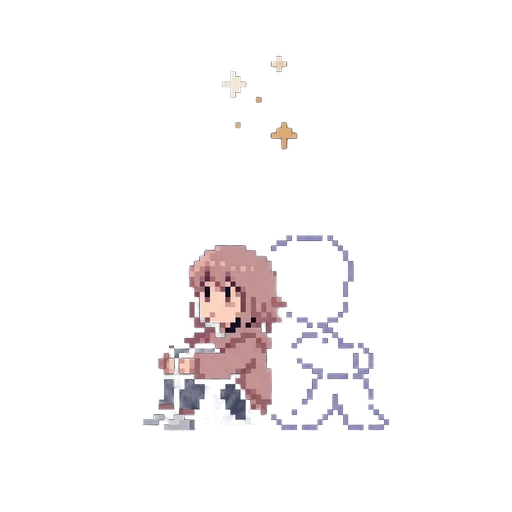
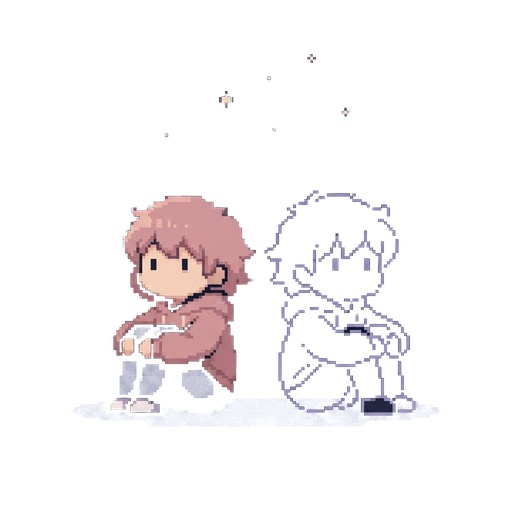
feat(art): v3 solo mode card to match together/remote

diff --git a/docs/09-asset-specification.md b/docs/09-asset-specification.md
@@ -171,7 +171,7 @@ Self-host ใน `public/fonts/` · `font-display: swap` · ระบุ License
 | og-image | 1200×628 | JPEG `public/brand/og.jpg` ✅ (ภาพหน้าปก ไม่มีข้อมูลผู้เล่น) | P2 |
 | cover | 1734×907 | JPEG `public/brand/cover.jpg` — พื้นหลัง S1 บนจอกว้าง (อัตราส่วน ≥ 4:3) | P1 |
 | cover-portrait | 1144×2048 | JPEG `public/brand/cover-portrait.jpg` (v3 ตัวละครแบบล็อกแล้ว ขยาย 2× แบบ nearest-neighbour) — พื้นหลัง S1 บนจอแนวตั้ง (ส่วนบนว่างไว้ให้ชื่อเกม ตัวละครอยู่ ~12% ล่าง ที่ ~14–25% / 73–84% ของความกว้าง) · ฉาก canvas `bg_title` ไม่ได้ใช้ที่ S1 แล้ว | P1 |
-| mode cards | 512×512 | PNG โปร่งใส `public/brand/mode-solo.png`, `mode-together.png`, `mode-remote.png` (together/remote เป็น v2 ตัวละครตรงกับปก · solo ใช้ภาพแรกตามที่เจ้าของเลือก) — S2 การ์ดโหมด · วางบนกล่อง navy #171C2F เสมอ (เส้นเข้มบางส่วนโปร่งใส) · ตกแต่ง (`alt=""`) | P1 |
+| mode cards | 512×512 | PNG โปร่งใส `public/brand/mode-solo.png`, `mode-together.png`, `mode-remote.png` (v3 ตัวละครแบบล็อกแล้ว ทั้งสามใบ) — S2 การ์ดโหมด · วางบนกล่อง navy #171C2F เสมอ (เส้นเข้มบางส่วนโปร่งใส) · ตกแต่ง (`alt=""`) | P1 |
 | waiting | 512×512 | PNG โปร่งใส `public/brand/waiting.png` — สองคนนั่งหันหลังให้กัน: S17 ขณะรอไฟล์ปิดผนึกของคู่ (Phase Waiting, docs/06 S7) และ EmptyState ของ S8 (ยังไม่มีข้อให้เทียบ) · กล่อง navy · ตกแต่ง | P1 |
 | handoff | 512×512 | PNG โปร่งใส `public/brand/handoff.png` — S12 Handoff (สองมือส่งโทรศัพท์ แขนเสื้อชมพูซ้าย ฟ้าขวา) แทนไอคอน Lucide · ตกแต่ง (`alt=""`) ไม่มีกรอบ ไม่มีแอนิเมชัน | P1 |
 | ending | 2048×1144 | JPEG `public/brand/ending.jpg` (v3 ขยาย 2× แบบ nearest-neighbour) — ภาพฉาก S15 (สองคนนั่งบนม้านั่งบนดาดฟ้า หันหน้าเข้าหาผู้ชม ใต้กลุ่มดาวที่เชื่อมดาวชมพูกับดาวฟ้า) แทนฉาก canvas `bg_rooftop_night` ในหน้าจบ · แสดงกว้างไม่เกิน max-w-5xl เพื่อไม่ให้เบลอ | P1 |
